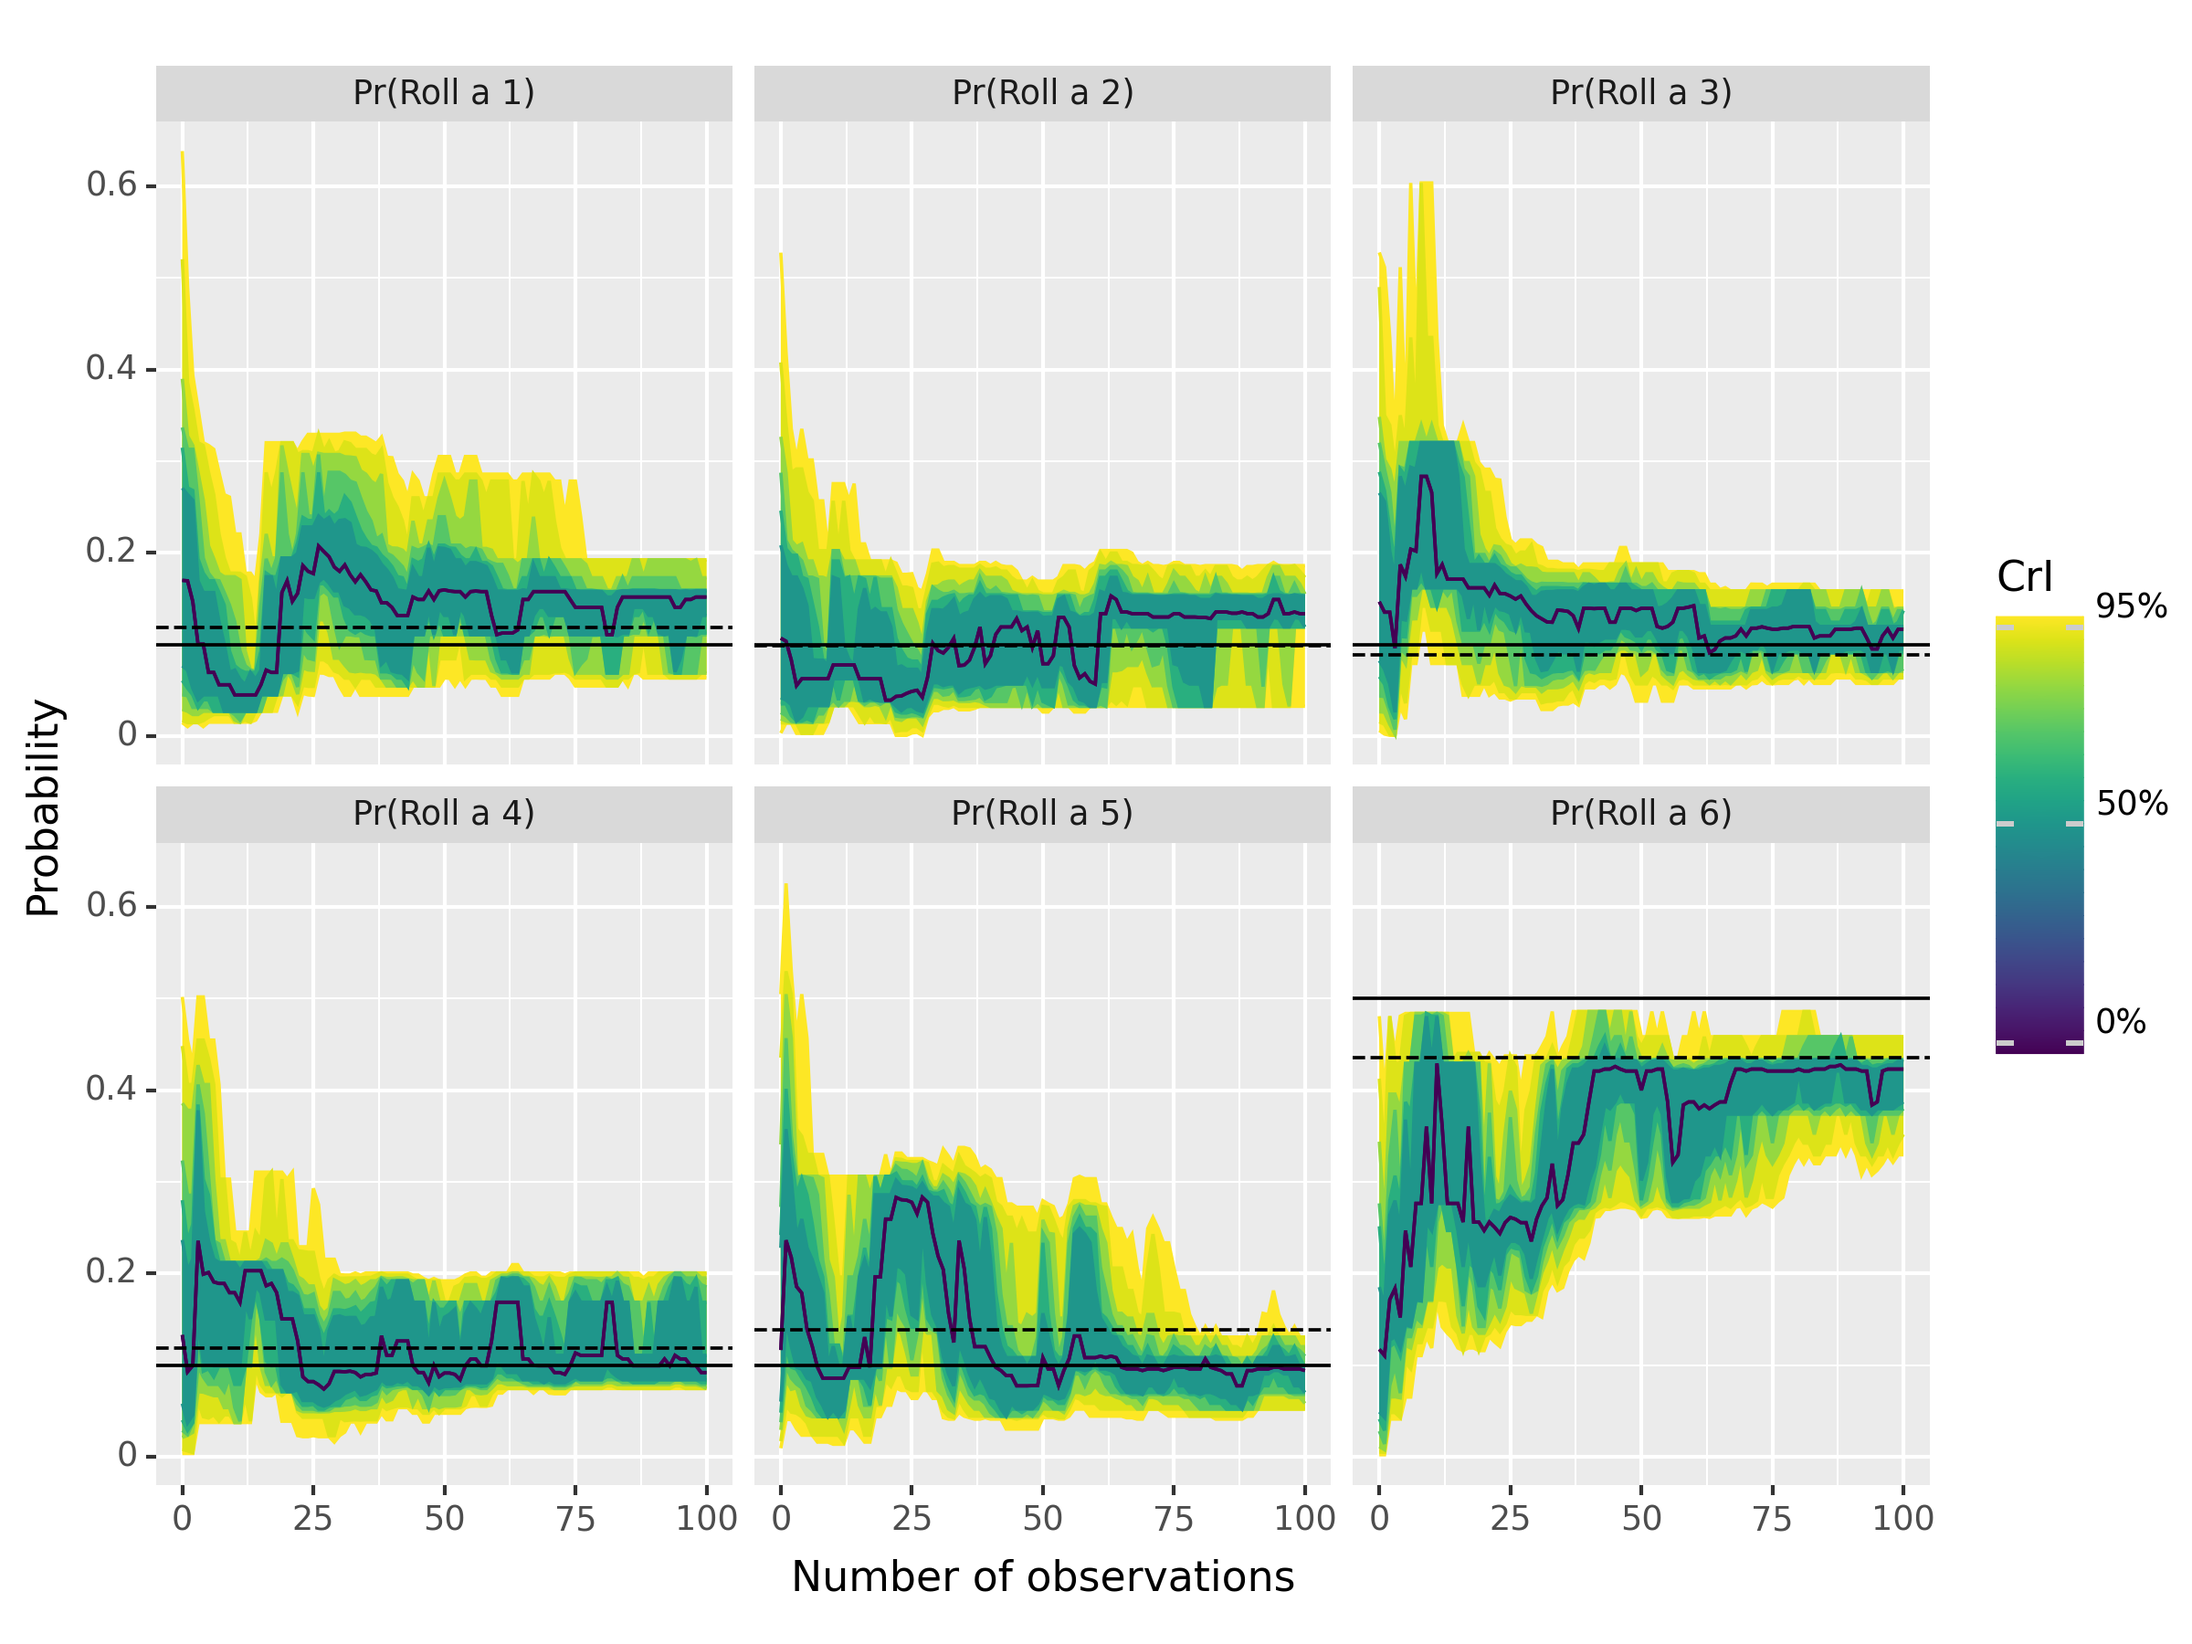
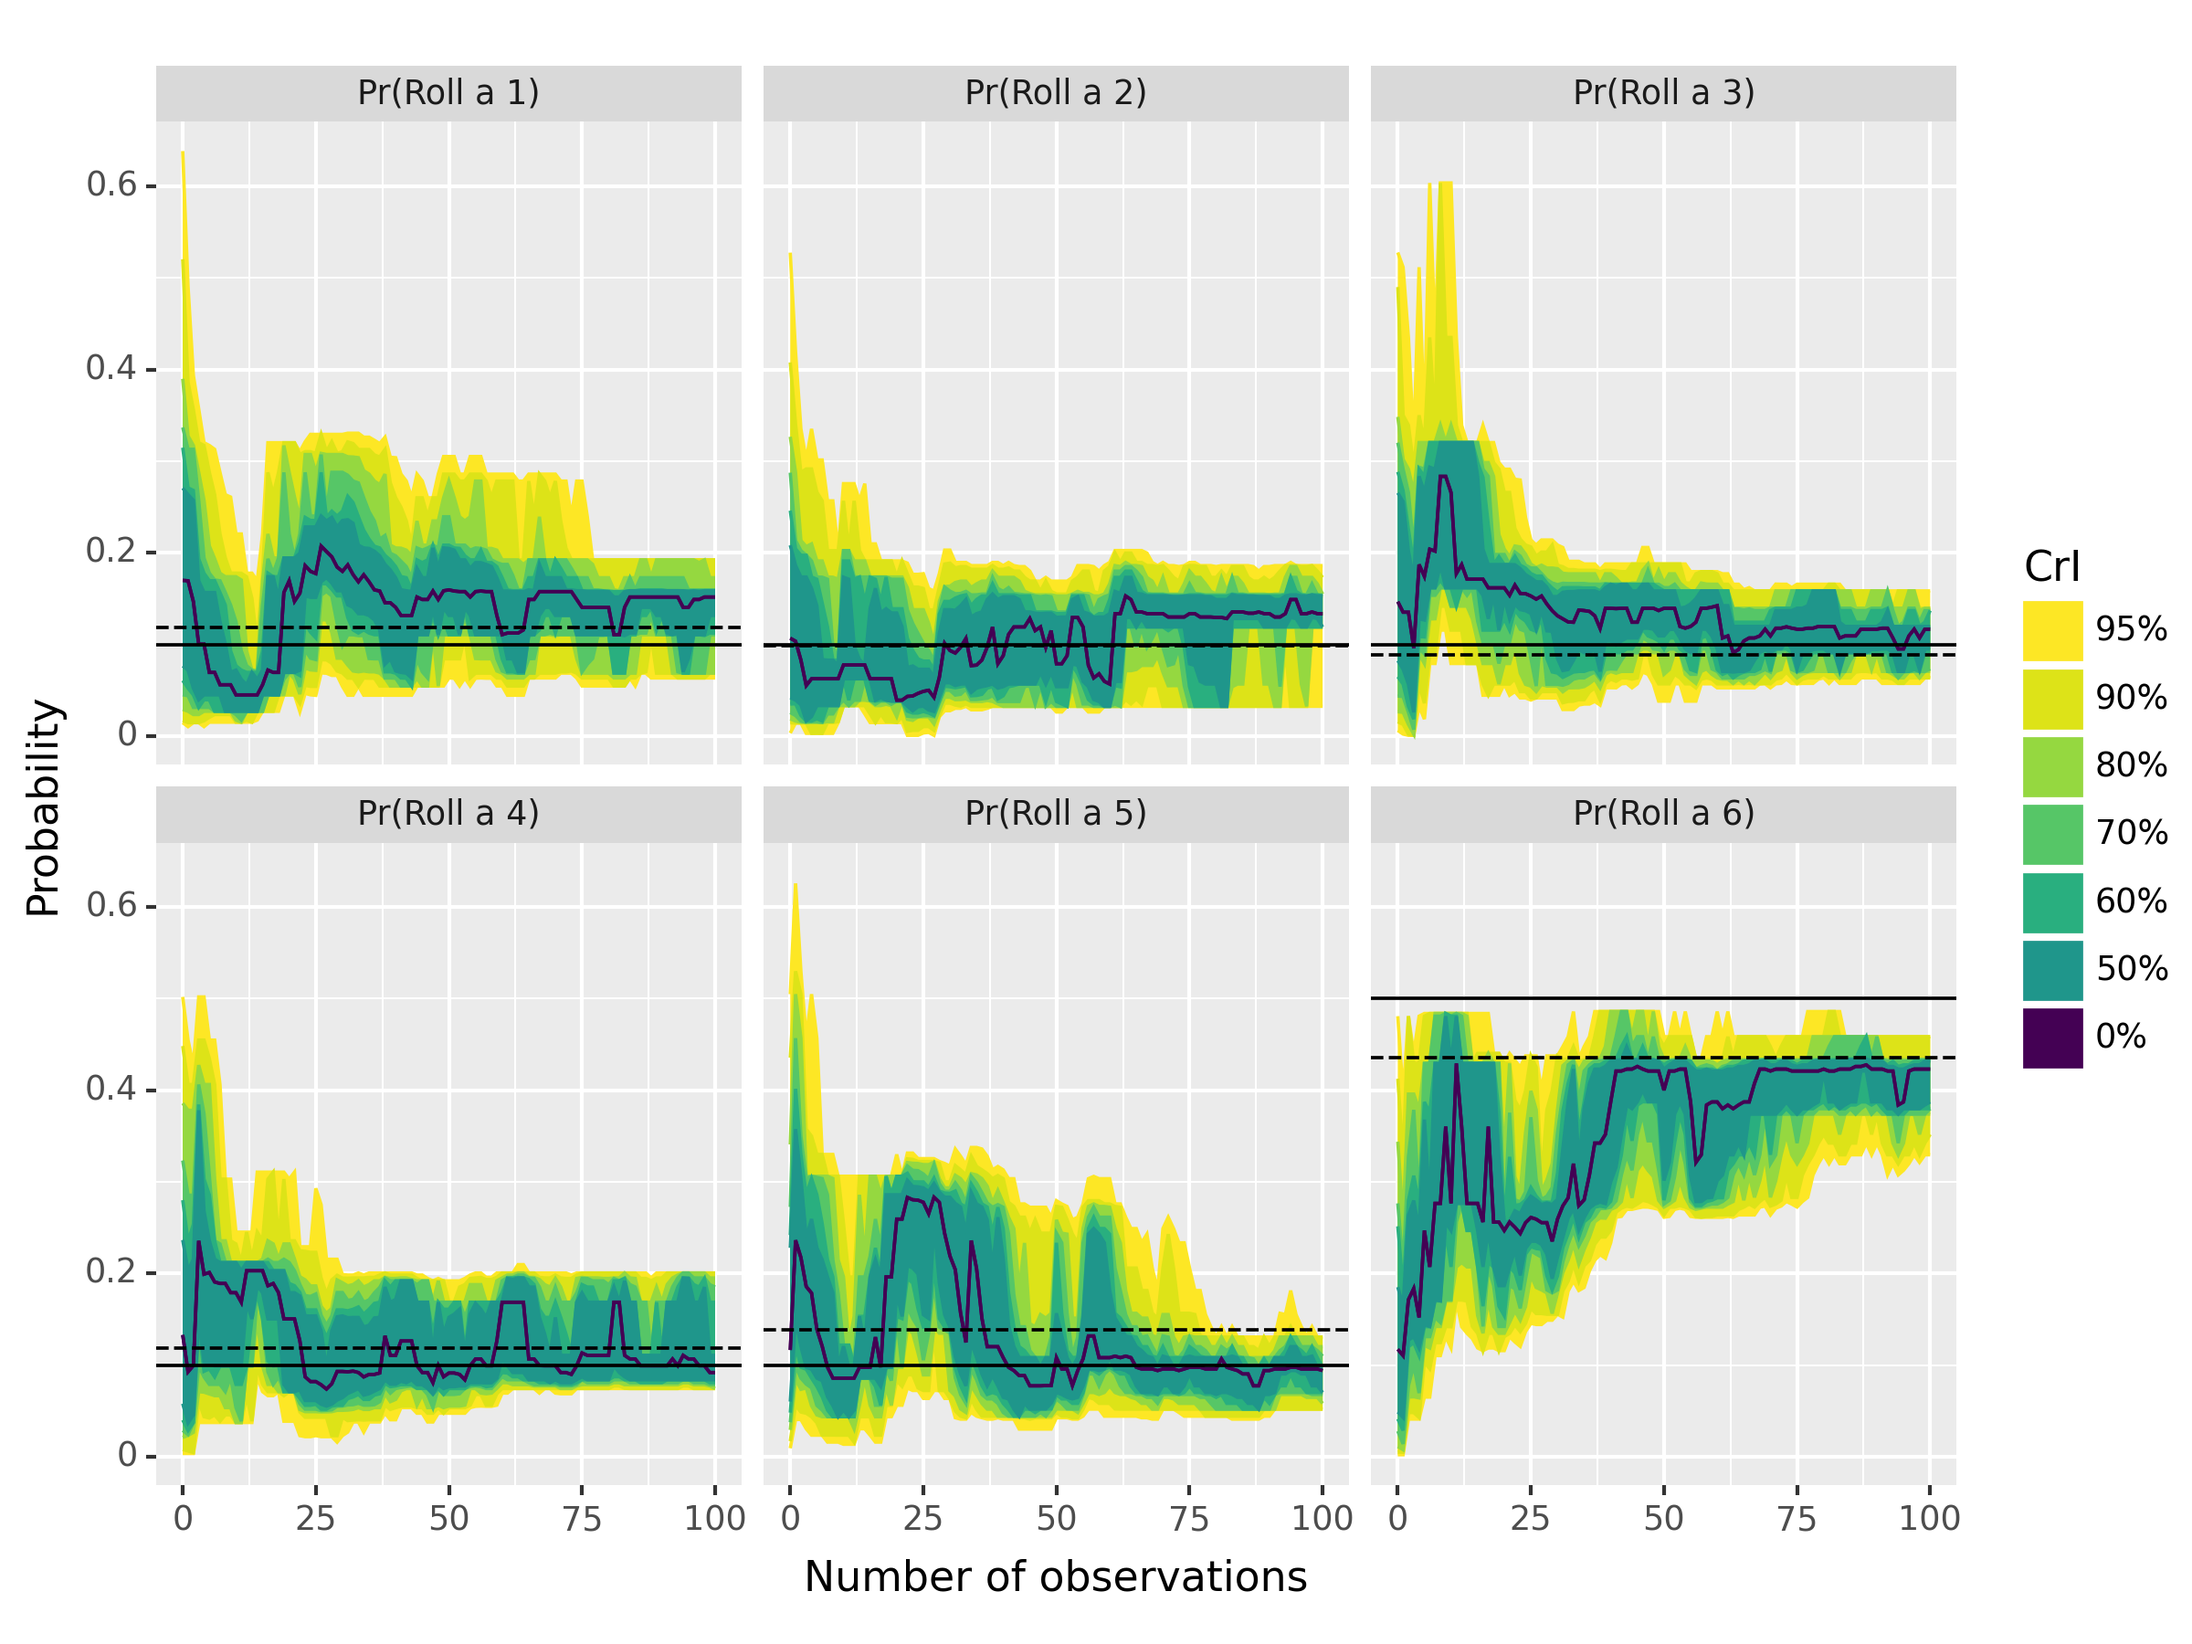
Show each credible interval as a separate key
This replaces the continuous colour-bar legend with individual keys for
each credible interval.

diff --git a/run-example.py b/run-example.py
@@ -62,6 +62,10 @@ df_fracs = (
     .agg(frac=pl.col('time').count().truediv(pl.lit(df_rolls.height)))
 )
 
+# Define custom breaks and labels for each credible interval.
+breaks = list(df_cints['prob'].unique().sort())[::-1]
+labels = [f'{prob}%' for prob in breaks]
+
 # Plot the credible intervals against the ground truth and observed outcomes.
 plot = (
     pn.ggplot()
@@ -83,14 +87,15 @@ plot = (
     + pn.ylab('Probability')
     + pn.scale_fill_continuous(
         name='CrI',
-        breaks=[0, 50, 95],
-        labels=['0%', '50%', '95%'],
+        breaks=breaks,
+        labels=labels,
     )
     + pn.scale_colour_continuous(
         name='CrI',
-        breaks=[0, 50, 95],
-        labels=['0%', '50%', '95%'],
+        breaks=breaks,
+        labels=labels,
     )
+    + pn.guides(color=pn.guide_legend(), fill=pn.guide_legend())
 )
 
 plot_file = 'example.png'
